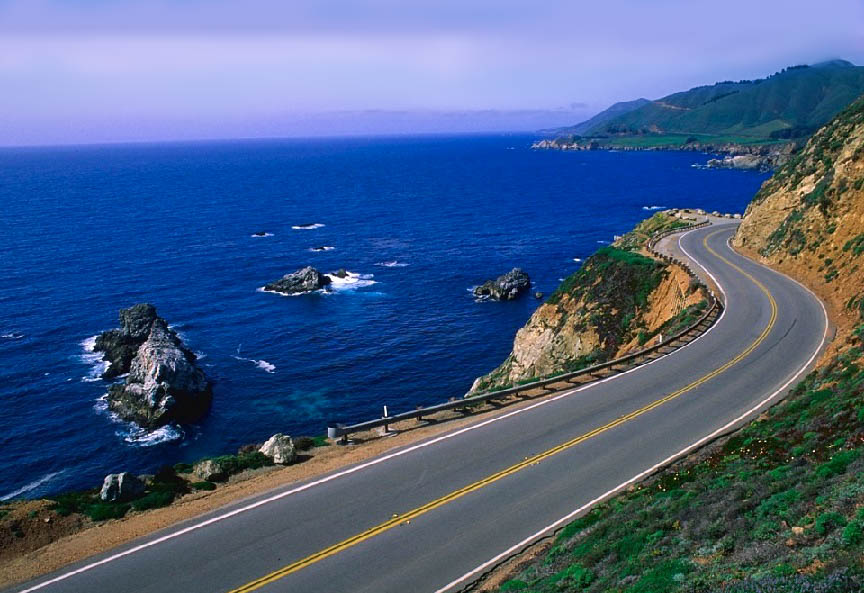
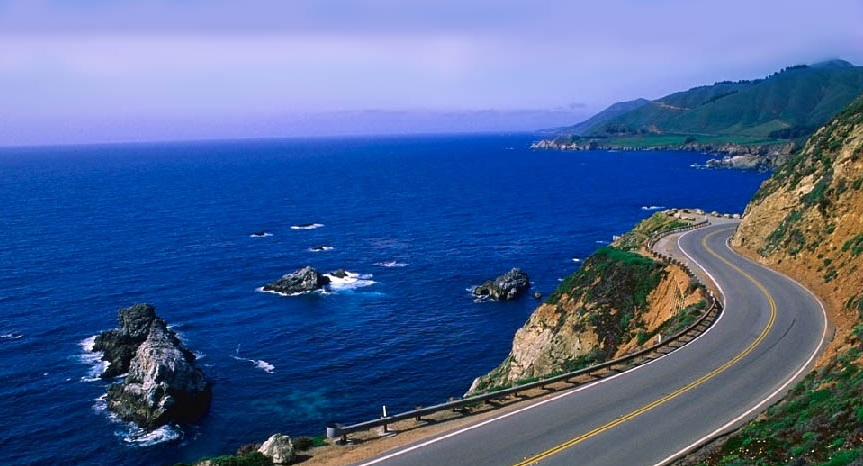
resize of background image

diff --git a/src/app/app.component.html b/src/app/app.component.html
@@ -1,11 +1,15 @@
 <head>
   <link rel="stylesheet" href="//maxcdn.bootstrapcdn.com/font-awesome/4.3.0/css/font-awesome.min.css">
+
+  <script src="https://ajax.googleapis.com/ajax/libs/angularjs/1.4.8/angular.min.js"></script>
+  <script src="//code.angularjs.org/1.7.7/angular.min.js"></script>
+  <script src="//code.angularjs.org/1.7.7/angular-animate.js"></script>
 </head>
 
-<body>
+<body ng-app="">
 
-<div id="backgroundimage">
-    <img src="./assets/background-image.jpg" width="100%">
+<div>
+    <img id="backgroundimage" src="./assets/background-image.jpg">
 </div>
 
 <div style="width:100%; border-bottom-color: white; border-bottom-width:1px;">
@@ -50,7 +54,7 @@
   </div>
 </div>
 
-<div style="width: 90%; margin-left: 5%;">
+<div style="width: 60%; margin-left: 5%;">
 
   <fieldset id="location-fieldset">
 
@@ -163,8 +167,14 @@
 </fieldset>
 
 <fieldset>
-    <input type="checkbox">
+  <div ng-app>
+    <input type="checkbox" ng-model="young-driver">
     <label>Driver aged between 30-65?</label>
+
+    <div ng-show="young-driver">Driver's age
+      <input>
+    </div>
+  </div>
 </fieldset>
 
 <fieldset>

diff --git a/src/app/app.component.css b/src/app/app.component.css
@@ -114,7 +114,7 @@ h1 {
     left: 0;
     z-index: -1;
     width: 100%;
-    height: 100%;
+    height: 500px;
   }
   
   #ftsAutocomplete
